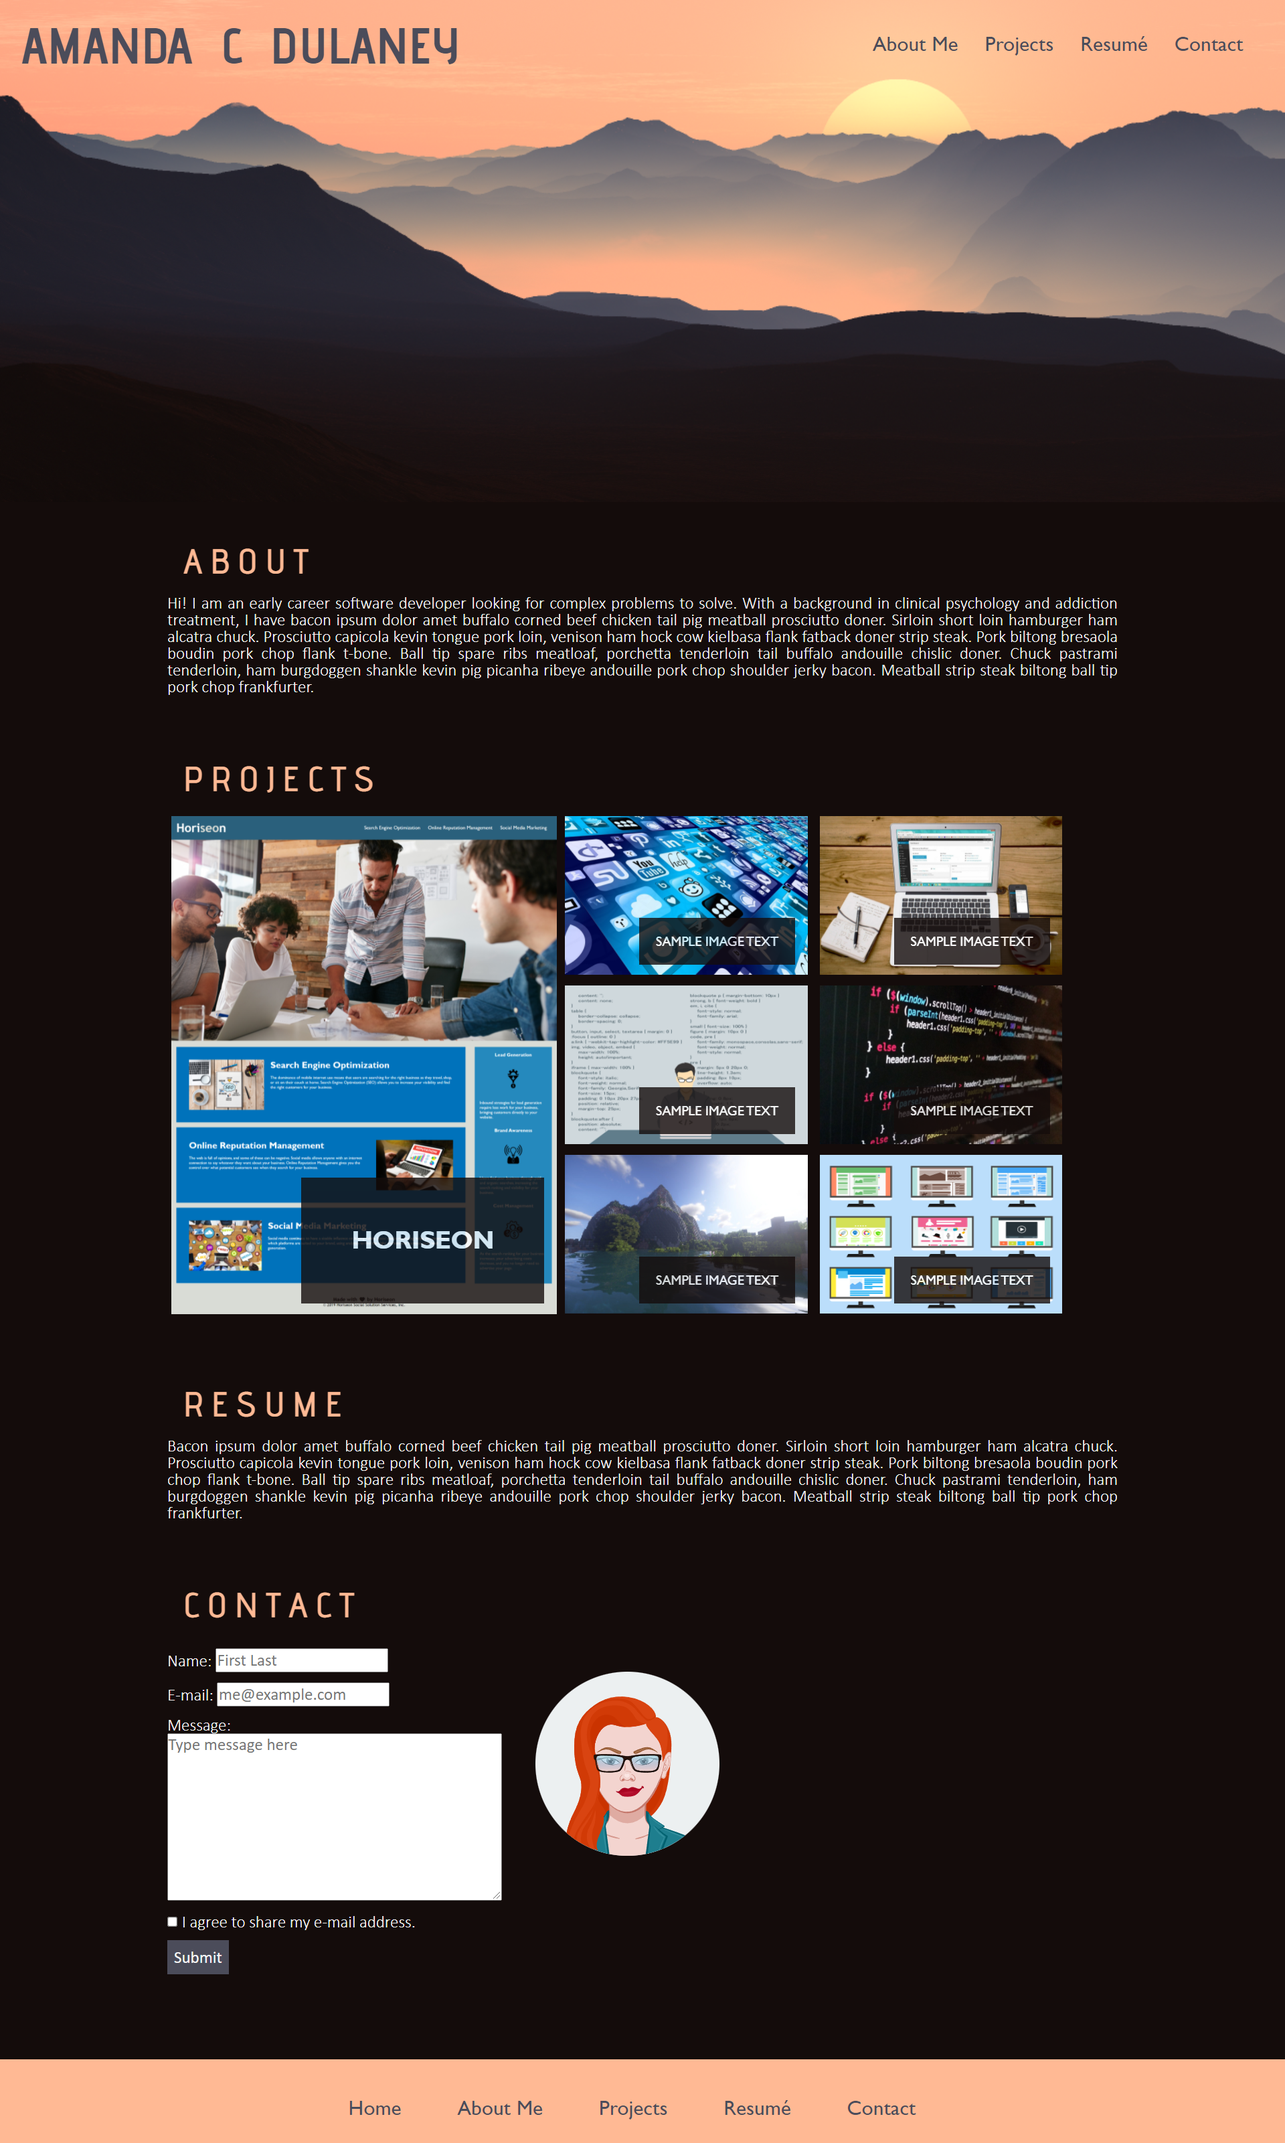
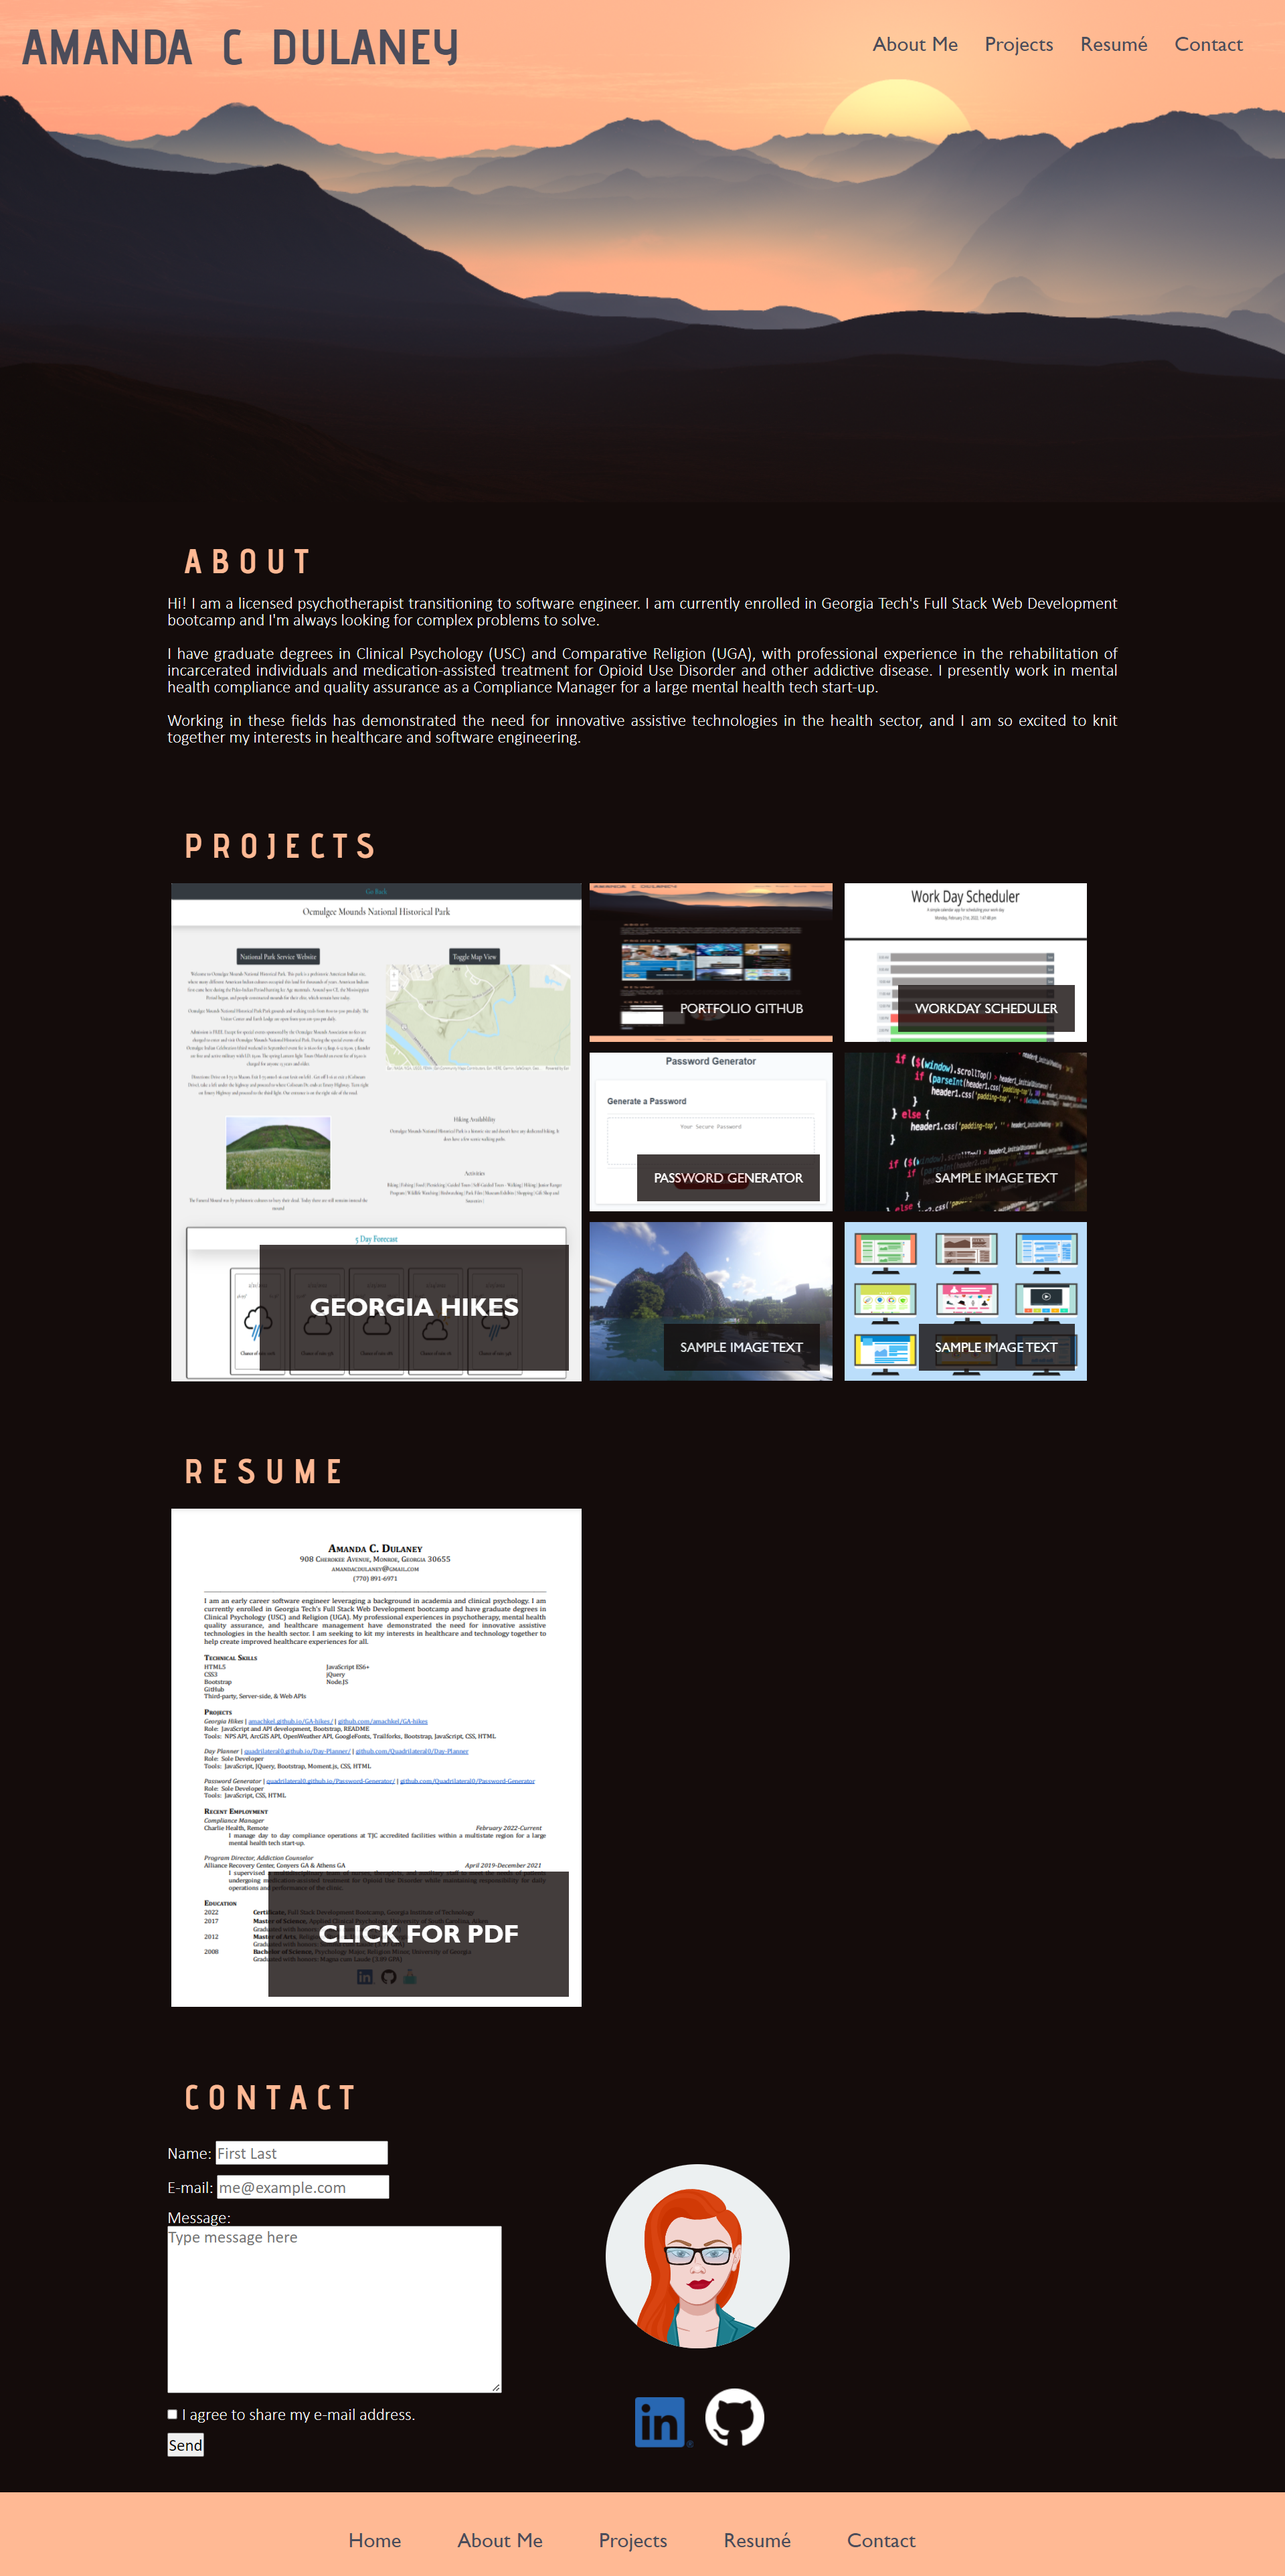
added js functionality to form, updated readme, fixed typo in resume

diff --git a/index.html b/index.html
@@ -10,6 +10,13 @@
   <link rel="preconnect" href="https://fonts.gstatic.com" crossorigin>
   <link href="https://fonts.googleapis.com/css2?family=Advent+Pro:wght@400;700&display=swap" rel="stylesheet">
   <link rel="stylesheet" href="./assets/css/style.css" />
+  <script type="text/javascript" src="https://cdn.jsdelivr.net/npm/@emailjs/browser@3/dist/email.min.js"></script>
+  <script type="text/javascript">
+    (function() {
+        emailjs.init("user_5odXzqUe1RJHV4aWLAjpO");
+    })();
+  </script>
+  <script type="text/javascript" src="assets/js/script.js"></script>
 </head>
 
 <body>
@@ -31,7 +38,7 @@
         <section id="about" class="sectionbox">
             <h2>A&nbsp;B&nbsp;O&nbsp;U&nbsp;T</h2>
             <p>Hi! I am a licensed psychotherapist transitioning to software engineer. I am currently enrolled in Georgia Tech's Full Stack Web Development bootcamp and I'm always looking for complex problems to solve.</p><br>
-            <p>I have graduate degrees in Clinical Psychology (USC) and Comparative Religion (UGA), with professional experience in the rehabilitation of incarcerated individuals and medication-assisted treatment for Opioid Use Disorder and other addictive disease. I presently work in mental health compliance and quality assurance as a Compliance Manager for a large mental health tech start-up.</p><br>
+            <p>I have graduate degrees in Clinical Psychology (USC) and Comparative Religion (UGA), with professional experience in general psychotherapy, addiction treatment, and healthcare management. I presently work in mental health compliance and quality assurance as a Compliance Manager for a large mental health tech start-up.</p><br>
             <p>Working in these fields has demonstrated the need for innovative assistive technologies in the health sector, and I am so excited to knit together my interests in healthcare and software engineering.</p><br>
         </section>
         <section id="projects" class="sectionbox">
@@ -105,25 +112,26 @@
         <section id="contact" class="sectionbox">
             <h2>C&nbsp;O&nbsp;N&nbsp;T&nbsp;A&nbsp;C&nbsp;T</h2>
             <div id="contactcontainer"> 
-                <form>
+                <form id="contact-form">
                         <p>
+                            <input type="hidden" name="contact_number">
                             <label for="name">Name:</label>
-                            <input class="text-input" id="name" type="text" placeholder="First Last"/>
+                            <input class="text-input" id="name" type="text" name="user_name" placeholder="First Last"/>
                         </p>
                         <p>
                             <label for="email">E-mail:</label>
-                            <input class="text-input" id="email" type="text" placeholder="me@example.com"/>
+                            <input class="text-input" id="email" type="text" name="user_email" placeholder="me@example.com"/>
                         </p>
                         <p>
                             <label for="message">Message:</label>
-                            <textarea id="message" placeholder="Type message here"></textarea>
+                            <textarea id="message" name="content" placeholder="Type message here"></textarea>
                         </p>
                         <p>
                             <input id="agreement" type="checkbox"/>
                             <label for="agreement">I agree to share my e-mail address.</label>
                         </p>
                         <p>
-                        <button>Submit</button>
+                            <input type="submit" value="Send">
                         </p>
                 </form>
                 <div id="icon-container">
@@ -150,5 +158,4 @@
         </nav>
     </footer>
 </body>
-
 </html>

diff --git a/assets/js/script.js b/assets/js/script.js
@@ -1,0 +1,16 @@
+//EmailJS
+window.onload = function() {
+    document.getElementById('contact-form').addEventListener('submit', function(event) {
+        event.preventDefault();
+        // generate a five digit number for the contact_number variable
+        this.contact_number.value = Math.random() * 100000 | 0;
+        // these IDs from the previous steps
+        emailjs.sendForm('contact_service', 'contact_form', this)
+            .then(function() {
+                console.log('SUCCESS!');
+                location.reload();
+            }, function(error) {
+                console.log('FAILED...', error);
+            });
+    });
+}

diff --git a/README.md b/README.md
@@ -15,6 +15,7 @@ Visit my [portfolio website here](https://quadrilateral0.github.io/ACD-Portfolio
 
 ## Credits
 A thanks to my resources:
+- [EmailJS](https://www.emailjs.com/)
 - [Functional Accessibility Evaluator 2.2](https://fae.disability.illinois.edu/anonymous/?Anonymous%20Report=/)
 - [Font Squirrel Webfont Generator](https://www.fontsquirrel.com/tools/webfont-generator)
 - [Pixabay](https://pixabay.com/)
